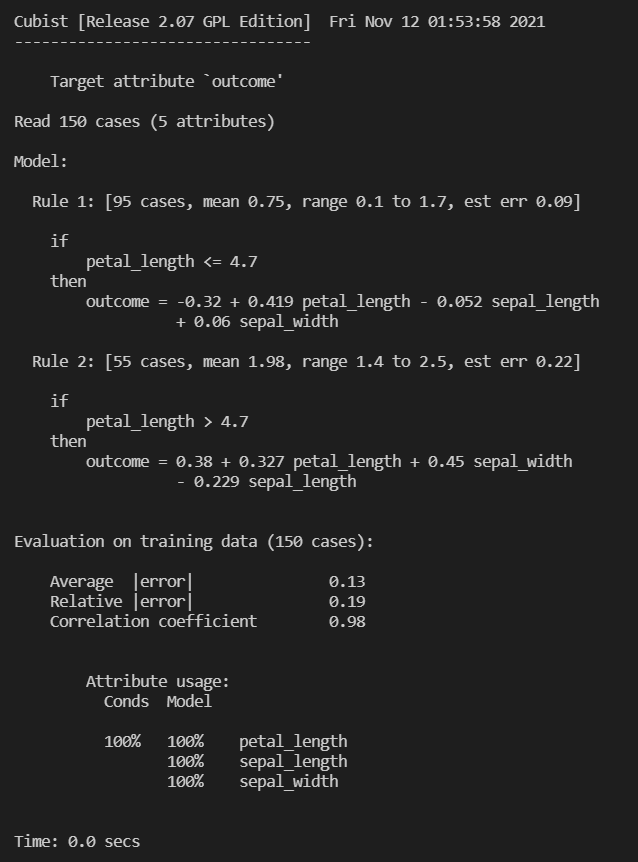
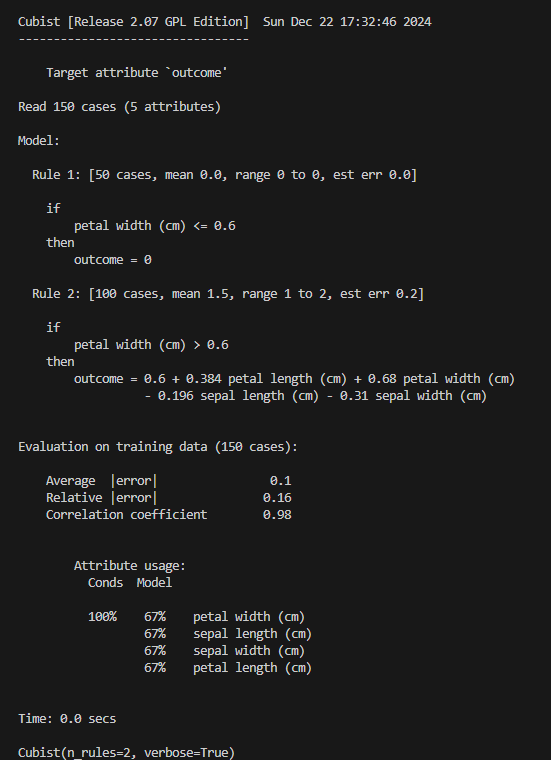
updated readme verbose output and completed plotting utility docs

diff --git a/cubist/cubist_coverage_display.py b/cubist/cubist_coverage_display.py
@@ -3,6 +3,7 @@
 import operator
 
 import pandas as pd
+from sklearn.utils.validation import check_is_fitted
 
 from .cubist import Cubist
 from ._cubist_display_mixin import _CubistDisplayMixin
@@ -18,11 +19,14 @@ OPERATORS = {
 
 
 class CubistCoverageDisplay(_CubistDisplayMixin):
-    """Visualization of the regression coefficients used in the Cubist model.
+    """Visualization of rule coverage for input variables for a trained Cubist
+    model.
 
-    This tool can display "residuals vs predicted" or "actual vs predicted"
-    using scatter plots to qualitatively assess the behavior of a regressor,
-    preferably on held-out data points.
+    This tool plots the percents and ranges (coverage) per rule of input
+    variables from a given dataset. One subplot is created for each variable
+    used to make splits with the rule number or committee/rule pair on the
+    y-axis. The coverage percentages for the given variable and rule pair or
+    variable and committee/rule pair are plotted along the x-axis.
 
     See the details in the docstrings of
     :func:`~cubist.CubistCoefficientDisplay.from_estimator`to
@@ -32,8 +36,9 @@ class CubistCoverageDisplay(_CubistDisplayMixin):
 
     Parameters
     ----------
-    coeffs : Pandas DataFrame of shape (n_samples,)
-        True values.
+    splits : pd.DataFrame
+        DataFrame containing the model split values by variable,
+        committee, and rule.
 
     Attributes
     ----------
@@ -45,20 +50,17 @@ class CubistCoverageDisplay(_CubistDisplayMixin):
 
     See Also
     --------
-    CubistCoefficientDisplay.from_estimator : Plot the coefficients used in the
+    CubistCoverageDisplay.from_estimator : Plot the coefficients used in the
         Cubist model.
 
     Examples
     --------
     >>> import matplotlib.pyplot as plt
-    >>> from sklearn.datasets import load_diabetes
-    >>> from sklearn.linear_model import Ridge
-    >>> from sklearn.metrics import PredictionErrorDisplay
-    >>> X, y = load_diabetes(return_X_y=True)
-    >>> ridge = Ridge().fit(X, y)
-    >>> y_pred = ridge.predict(X)
-    >>> display = PredictionErrorDisplay(y_true=y, y_pred=y_pred)
-    >>> display.plot()
+    >>> from sklearn.datasets import load_iris
+    >>> from cubist import Cubist, CubistCoverageDisplay
+    >>> X, y = load_iris(return_X_y=True, as_frame=True)
+    >>> model = Cubist(n_rules=2).fit(X, y)
+    >>> display = CubistCoverageDisplay.from_estimator(estimator=model)
     <...>
     >>> plt.show()
     """
@@ -77,6 +79,9 @@ class CubistCoverageDisplay(_CubistDisplayMixin):
         line_kwargs: dict = None,
     ):
         """Plot visualization.
+
+        Extra keyword arguments will be passed to matplotlib's ``subplots`` and
+        ``plot``.
 
         Parameters
         ----------
@@ -97,7 +102,7 @@ class CubistCoverageDisplay(_CubistDisplayMixin):
 
         Returns
         -------
-        display : :class:`~cubist.CubistCoefficientDisplay`
+        display : :class:`~cubist.CubistCoverageDisplay`
             Object that stores computed values.
         """
         self.figure_, self.ax_ = self._validate_plot_params(
@@ -154,12 +159,7 @@ class CubistCoverageDisplay(_CubistDisplayMixin):
         line_kwargs=None,
         gridspec_kwargs=None,
     ):
-        """Plot the coefficients used in the Cubist model.
-
-        For general information regarding `scikit-learn` visualization tools,
-        read more in the :ref:`Visualization Guide <visualizations>`.
-        For details regarding interpreting these plots, refer to the
-        :ref:`Model Evaluation Guide <visualization_regression_evaluation>`.
+        """Plot the input variable coverage for rules used in the Cubist model.
 
         .. versionadded:: 1.0.0
 
@@ -182,8 +182,8 @@ class CubistCoverageDisplay(_CubistDisplayMixin):
             Axes object to plot on. If `None`, a new figure and axes is
             created.
 
-        scatter_kwargs : dict, default=None
-            Dictionary with keywords passed to the `matplotlib.pyplot.scatter`
+        line_kwargs : dict, default=None
+            Dictionary with keywords passed to the `matplotlib.pyplot.plot`
             call.
 
         gridspec_kwargs : dict, default=None
@@ -192,22 +192,26 @@ class CubistCoverageDisplay(_CubistDisplayMixin):
 
         Returns
         -------
-        display : :class:`~cubist.CubistCoefficientDisplay`
+        display : :class:`~cubist.CubistCoverageDisplay`
             Object that stores the computed values.
 
         See Also
         --------
-        CubistCoefficientDisplay :
+        CubistCoverageDisplay : Cubist input variable coverage visualization.
 
         Examples
         --------
-        >>> from sklearn.datasets import load_diabetes
-        >>> from cubist import Cubist, CubistCoefficientDisplay
-        >>> X, y = load_diabetes(return_X_y=True)
-        >>> model = Cubist().fit(X, y)
-        >>> disp = CubistCoefficientDisplay.from_estimator(model)
+        >>> import matplotlib.pyplot as plt
+        >>> from sklearn.datasets import load_iris
+        >>> from cubist import Cubist, CubistCoverageDisplay
+        >>> X, y = load_iris(return_X_y=True, as_frame=True)
+        >>> model = Cubist(n_rules=2).fit(X, y)
+        >>> display = CubistCoverageDisplay.from_estimator(estimator=model)
+        <...>
         >>> plt.show()
         """
+        check_is_fitted(estimator)
+
         df = estimator.splits_.copy()
 
         # get rows that are continuous-type splits

diff --git a/cubist/cubist_coefficient_display.py b/cubist/cubist_coefficient_display.py
@@ -7,6 +7,8 @@ try:
 except ImportError:  # pragma: no cover
     from sklearn.utils import check_matplotlib_support
 
+from sklearn.utils.validation import check_is_fitted
+
 from .cubist import Cubist
 from ._cubist_display_mixin import _CubistDisplayMixin
 
@@ -14,9 +16,11 @@ from ._cubist_display_mixin import _CubistDisplayMixin
 class CubistCoefficientDisplay(_CubistDisplayMixin):
     """Visualization of the regression coefficients used in the Cubist model.
 
-    This tool can display "residuals vs predicted" or "actual vs predicted"
-    using scatter plots to qualitatively assess the behavior of a regressor,
-    preferably on held-out data points.
+    This tool plots the linear coefficients and intercepts created for a Cubist
+    model and stored in the `coeffs_` attribute. One subplot is created for
+    each variable or intercept with the rule number or committee/rule pair on
+    the y-axis. The coefficient values for the given variable and rule pair or
+    variable and committee/rule pair are plotted along the x-axis.
 
     See the details in the docstrings of
     :func:`~cubist.CubistCoefficientDisplay.from_estimator`to
@@ -26,8 +30,9 @@ class CubistCoefficientDisplay(_CubistDisplayMixin):
 
     Parameters
     ----------
-    coeffs : Pandas DataFrame of shape (n_samples,)
-        True values.
+    coeffs : pd.DataFrame
+        DataFrame containing the linear model coefficients by variable,
+        committee, and rule.
 
     Attributes
     ----------
@@ -45,14 +50,11 @@ class CubistCoefficientDisplay(_CubistDisplayMixin):
     Examples
     --------
     >>> import matplotlib.pyplot as plt
-    >>> from sklearn.datasets import load_diabetes
-    >>> from sklearn.linear_model import Ridge
-    >>> from sklearn.metrics import PredictionErrorDisplay
-    >>> X, y = load_diabetes(return_X_y=True)
-    >>> ridge = Ridge().fit(X, y)
-    >>> y_pred = ridge.predict(X)
-    >>> display = PredictionErrorDisplay(y_true=y, y_pred=y_pred)
-    >>> display.plot()
+    >>> from sklearn.datasets import load_iris
+    >>> from cubist import Cubist, CubistCoefficientDisplay
+    >>> X, y = load_iris(return_X_y=True, as_frame=True)
+    >>> model = Cubist(n_rules=2).fit(X, y)
+    >>> display = CubistCoefficientDisplay.from_estimator(estimator=model)
     <...>
     >>> plt.show()
     """
@@ -71,6 +73,9 @@ class CubistCoefficientDisplay(_CubistDisplayMixin):
         scatter_kwargs: dict = None,
     ):
         """Plot visualization.
+
+        Extra keyword arguments will be passed to matplotlib's ``subplots`` and
+        ``scatter``.
 
         Parameters
         ----------
@@ -143,11 +148,6 @@ class CubistCoefficientDisplay(_CubistDisplayMixin):
     ):
         """Plot the coefficients used in the Cubist model.
 
-        For general information regarding `scikit-learn` visualization tools,
-        read more in the :ref:`Visualization Guide <visualizations>`.
-        For details regarding interpreting these plots, refer to the
-        :ref:`Model Evaluation Guide <visualization_regression_evaluation>`.
-
         .. versionadded:: 1.0.0
 
         Parameters
@@ -180,20 +180,23 @@ class CubistCoefficientDisplay(_CubistDisplayMixin):
 
         See Also
         --------
-        CubistCoefficientDisplay :
+        CubistCoefficientDisplay : Cubist coefficient visualization.
 
         Examples
         --------
-        >>> from sklearn.datasets import load_diabetes
+        >>> import matplotlib.pyplot as plt
+        >>> from sklearn.datasets import load_iris
         >>> from cubist import Cubist, CubistCoefficientDisplay
-        >>> X, y = load_diabetes(return_X_y=True)
-        >>> model = Cubist().fit(X, y)
-        >>> disp = CubistCoefficientDisplay.from_estimator(model)
+        >>> X, y = load_iris(return_X_y=True, as_frame=True)
+        >>> model = Cubist(n_rules=2).fit(X, y)
+        >>> display = CubistCoefficientDisplay.from_estimator(estimator=model)
+        <...>
         >>> plt.show()
         """
-        df = estimator.coeffs_.copy()
-        # melt dataframe to show each coefficient variable/value pair by committee/rule
-        df = pd.melt(df, id_vars=["committee", "rule"])
+        check_is_fitted(estimator)
+
+        # melt coeffs dataframe to show each coefficient variable/value pair by committee/rule
+        df = pd.melt(estimator.coeffs_, id_vars=["committee", "rule"])
         df = df.loc[df.notna().all(axis="columns")]
 
         df, ylabel = cls._validate_from_estimator_params(

diff --git a/cubist/cubist.py b/cubist/cubist.py
@@ -126,14 +126,22 @@ class Cubist(RegressorMixin, BaseEstimator):  # pylint: disable=R0902
     version_ : str
         The Cubist version with the time of local build/install.
 
+        .. versionadded:: 1.0.0
+
     feature_statistics_ : pd.DataFrame
         Table of statistics Cubist generated for each input attribute.
+
+        .. versionadded:: 1.0.0
 
     committee_error_reduction_ : float
         The reduction in error by using committees.
 
+        .. versionadded:: 1.0.0
+
     n_committees_used_ : int
         Number of committees actually used by Cubist.
+
+        .. versionadded:: 1.0.0
 
     Examples
     --------

diff --git a/cubist/tests/test_coefficient_display.py b/cubist/tests/test_coefficient_display.py
@@ -13,7 +13,7 @@ def test_coefficient_display():
     )
     y = X.medv
     X = X.drop(columns=["medv"])
-    model = Cubist(n_rules=4, n_committees=1, unbiased=False, extrapolation=1.0)
+    model = Cubist(n_rules=2)
     model.fit(X, y)
 
     CubistCoefficientDisplay.from_estimator(model)

diff --git a/cubist/tests/test_coverage_display.py b/cubist/tests/test_coverage_display.py
@@ -15,7 +15,7 @@ def test_coverage_display():
     y = X.medv
     X = X.drop(columns=["medv", "dis"])
 
-    model = Cubist(n_rules=4, n_committees=1, unbiased=False, extrapolation=1.0)
+    model = Cubist(n_rules=2)
     model.fit(X, y)
 
     CubistCoverageDisplay.from_estimator(model, X)

diff --git a/README.md b/README.md
@@ -74,7 +74,7 @@ In addition to boosting, the model can perform instance-based (nearest-neighbor)
 from sklearn.datasets import load_iris
 from cubist import Cubist
 X, y = load_iris(return_X_y=True, as_frame=True)
-model = Cubist(verbose=True)  # <- model parameters here
+model = Cubist(n_rules=2, verbose=True)  # <- model parameters here
 model.fit(X, y)
 model.predict(X)
 model.score(X, y)
